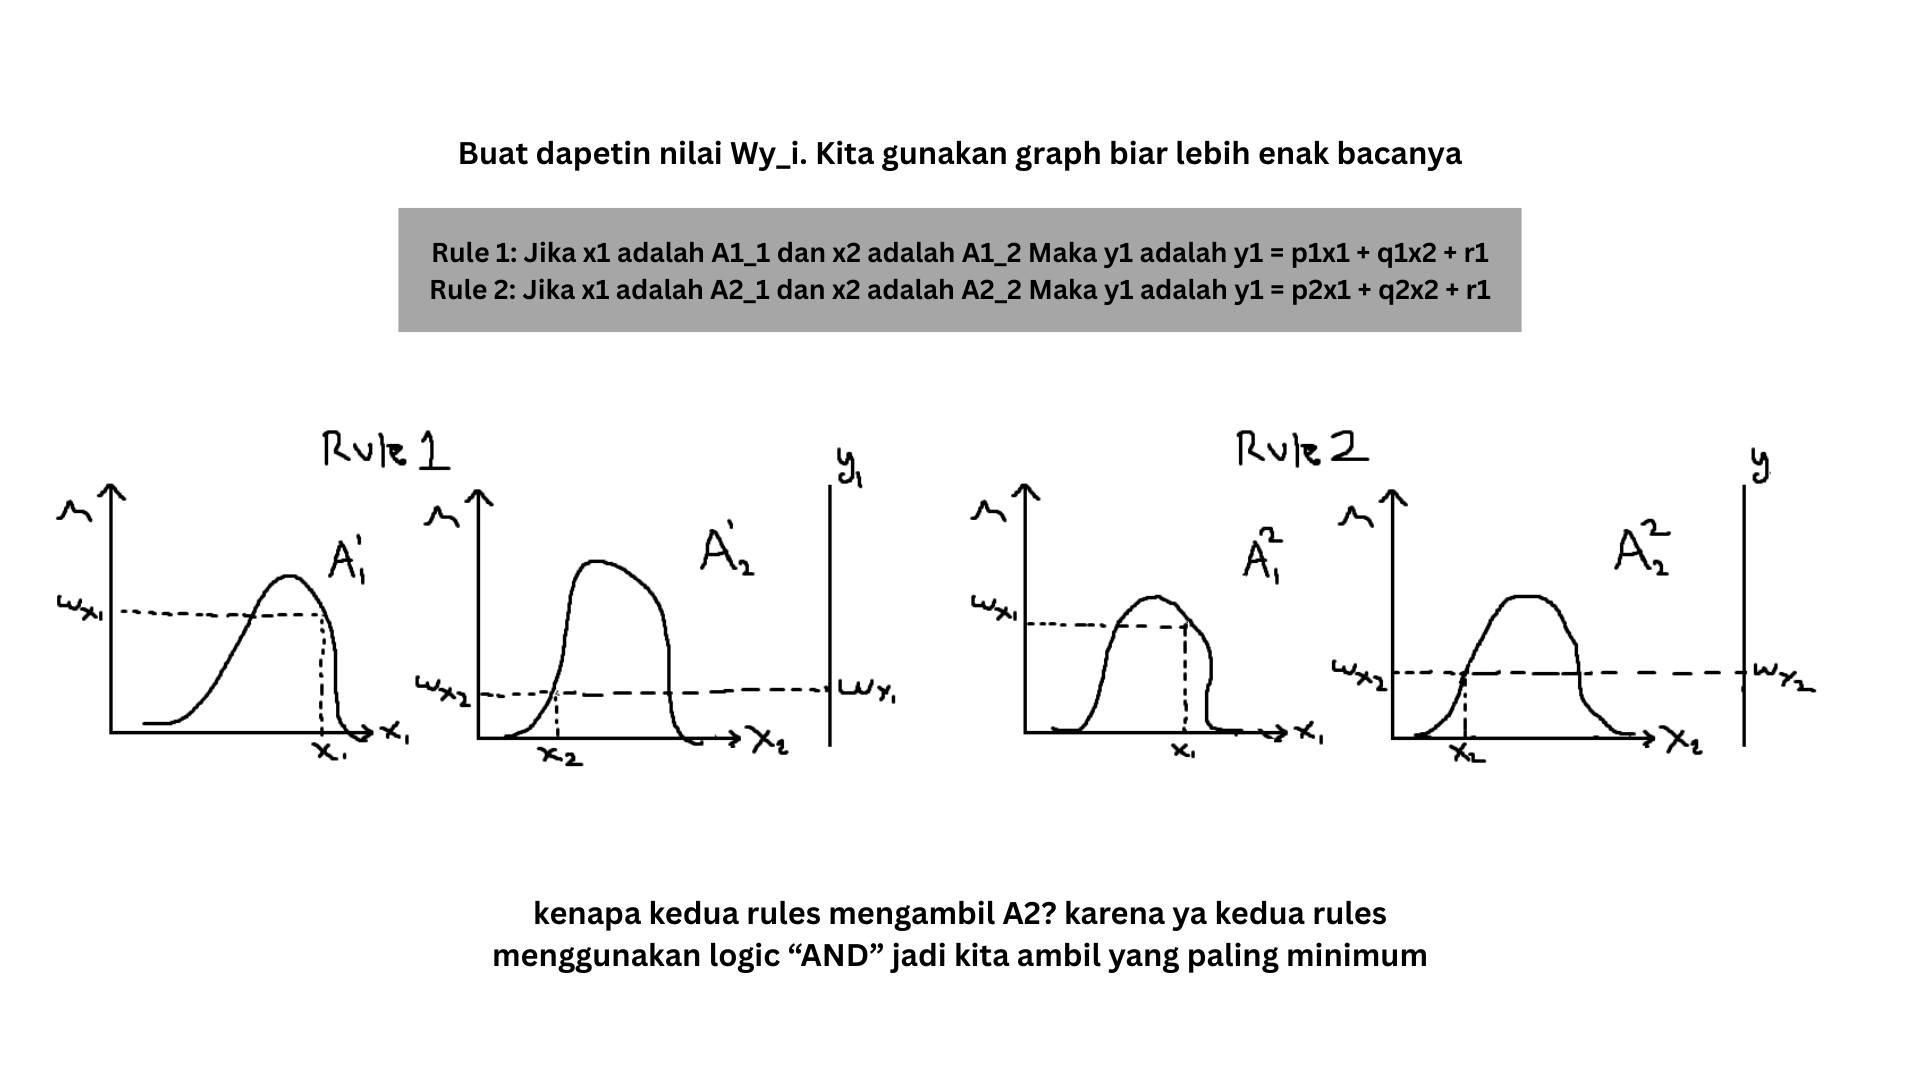
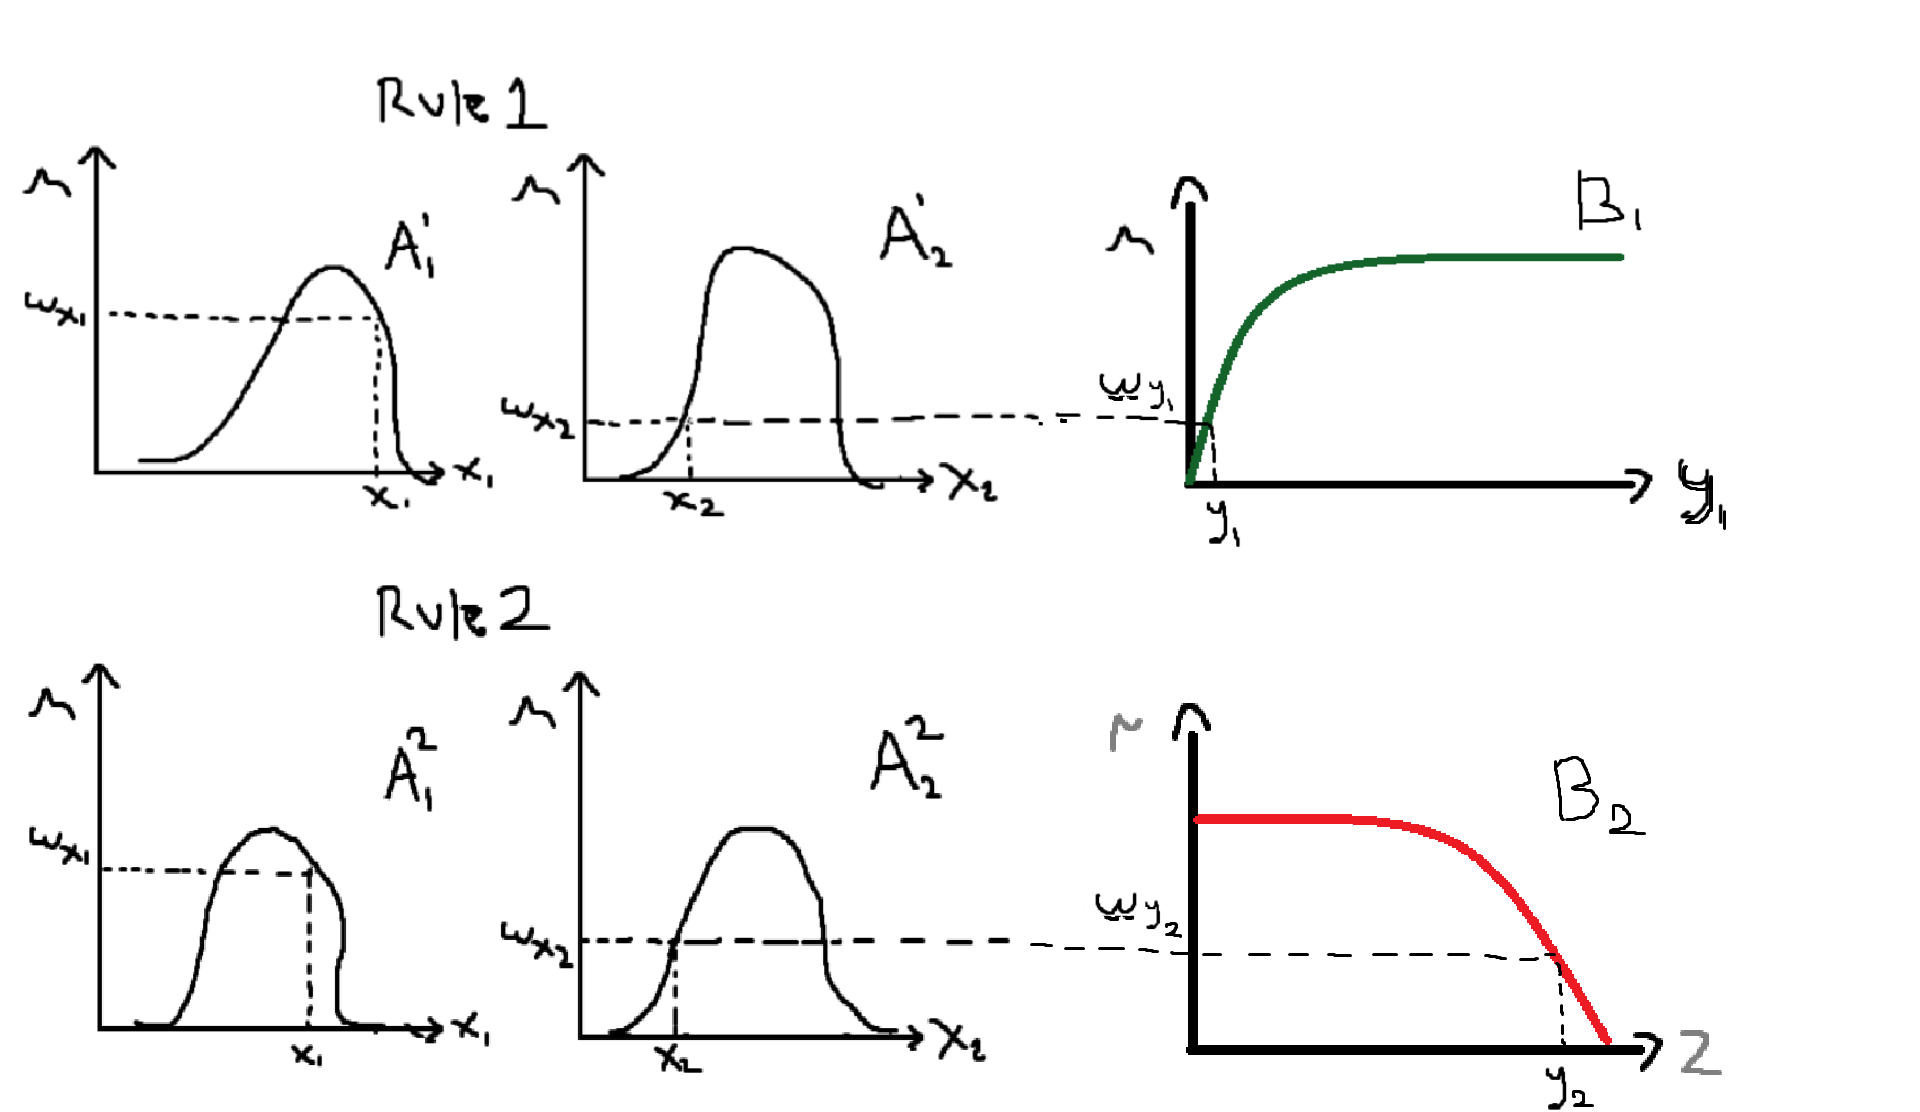
changing stuff

diff --git a/Praktikum/3 - Fuzzy Logic/Fuzzy Inference/Fuzzy Sugeno/README.md b/Praktikum/3 - Fuzzy Logic/Fuzzy Inference/Fuzzy Sugeno/README.md
@@ -64,6 +64,9 @@ kedua nilai tersebut (y_i dan w_i) akan digunakan pada tahap akhir untuk menghit
 ### ⚠ Eh itu di rule kedua, bukan y1 tapi y2. sory bet ga fokus (malas revisi)
 
 ![Deffuzifikasi](../../asset/Sugeno_Deffuzifikasi.png)
+
+Intinya begini: ![formula](https://latex.codecogs.com/png.latex?z%20=%20%5Cfrac%7B%5Csum%20%28w_i%20z_i%29%7D%7B%5Csum%20w_i%7D)
+
 Ini buat mendapatkan nilai Wy_i:
 ![wy_i](../../asset/wy_i.png)
 yayaya, maksudnya A2 itu kondisi/antecendent kedua. 

diff --git a/Praktikum/3 - Fuzzy Logic/Fuzzy Inference/Fuzzy Mamdani/Readme.md b/Praktikum/3 - Fuzzy Logic/Fuzzy Inference/Fuzzy Mamdani/Readme.md
@@ -6,6 +6,7 @@ Dari 2 antecandants menghasilkan 1 consequent, Di mamdani ada 2 cara
 
 Kalo diaturannya dibilang **or** kita ambil nilai keanggotaan fuzzy yang maksimumnya, kalo **and** kita ambil sebaliknya.
 
+
 ![Workflow](../../asset/ngambil_diYT/Screenshot%202025-10-01%20102833.png)
 
 Berikutnya kita gabungkan 2 graphnya, lalu kita truncate (kita cut) berdasarkan nilai pada rules sebelumnya
